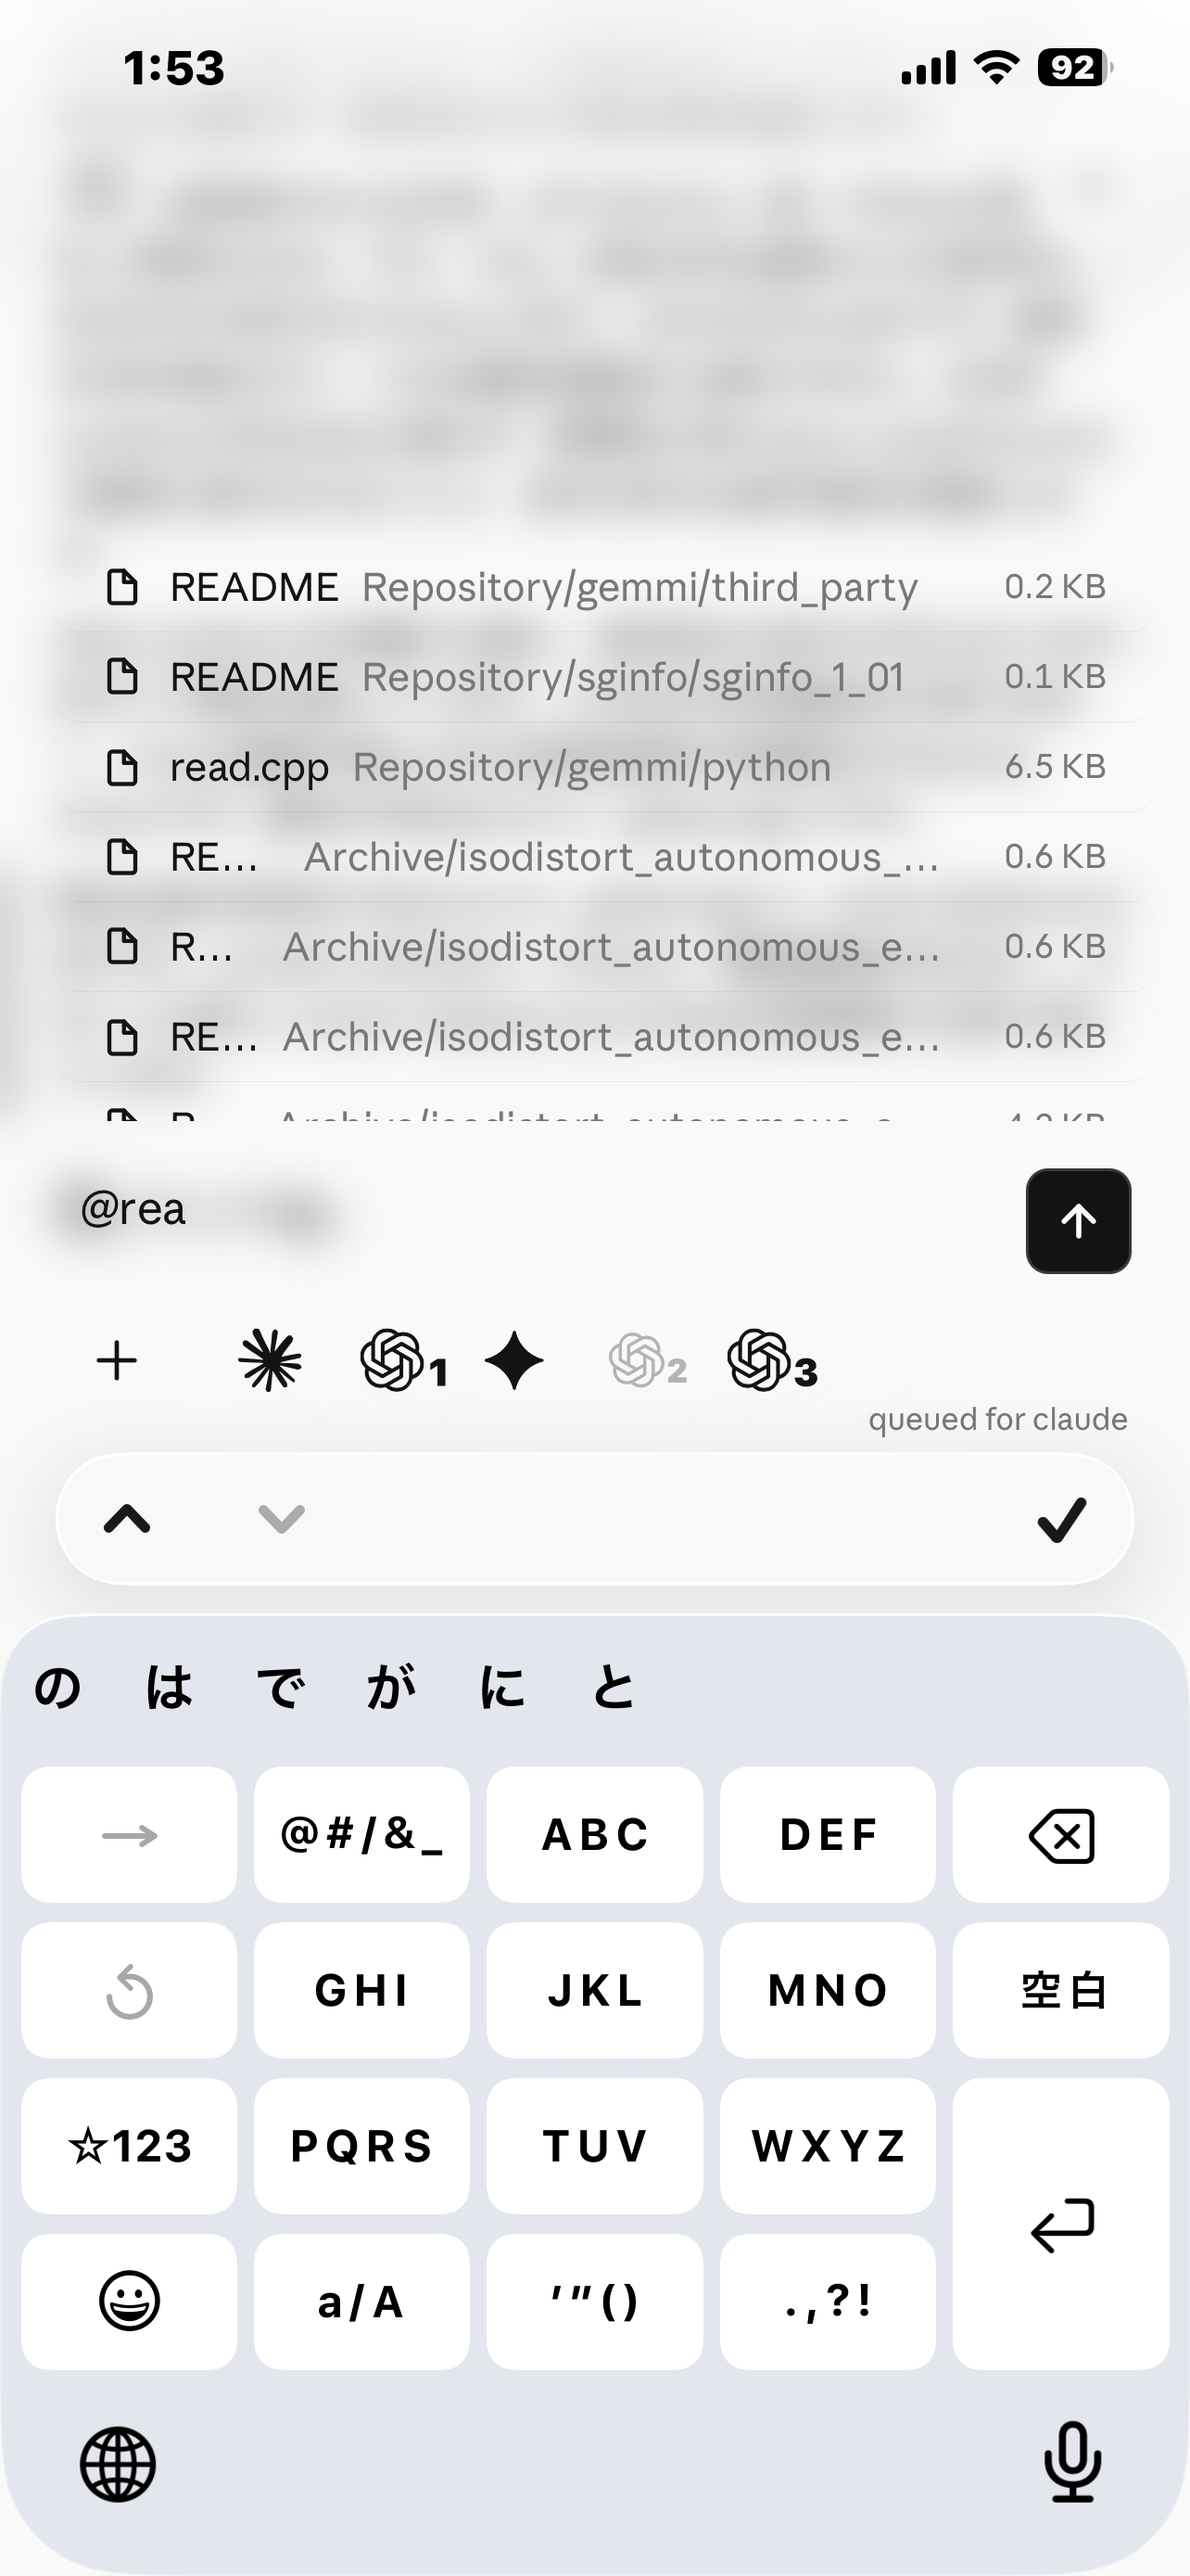
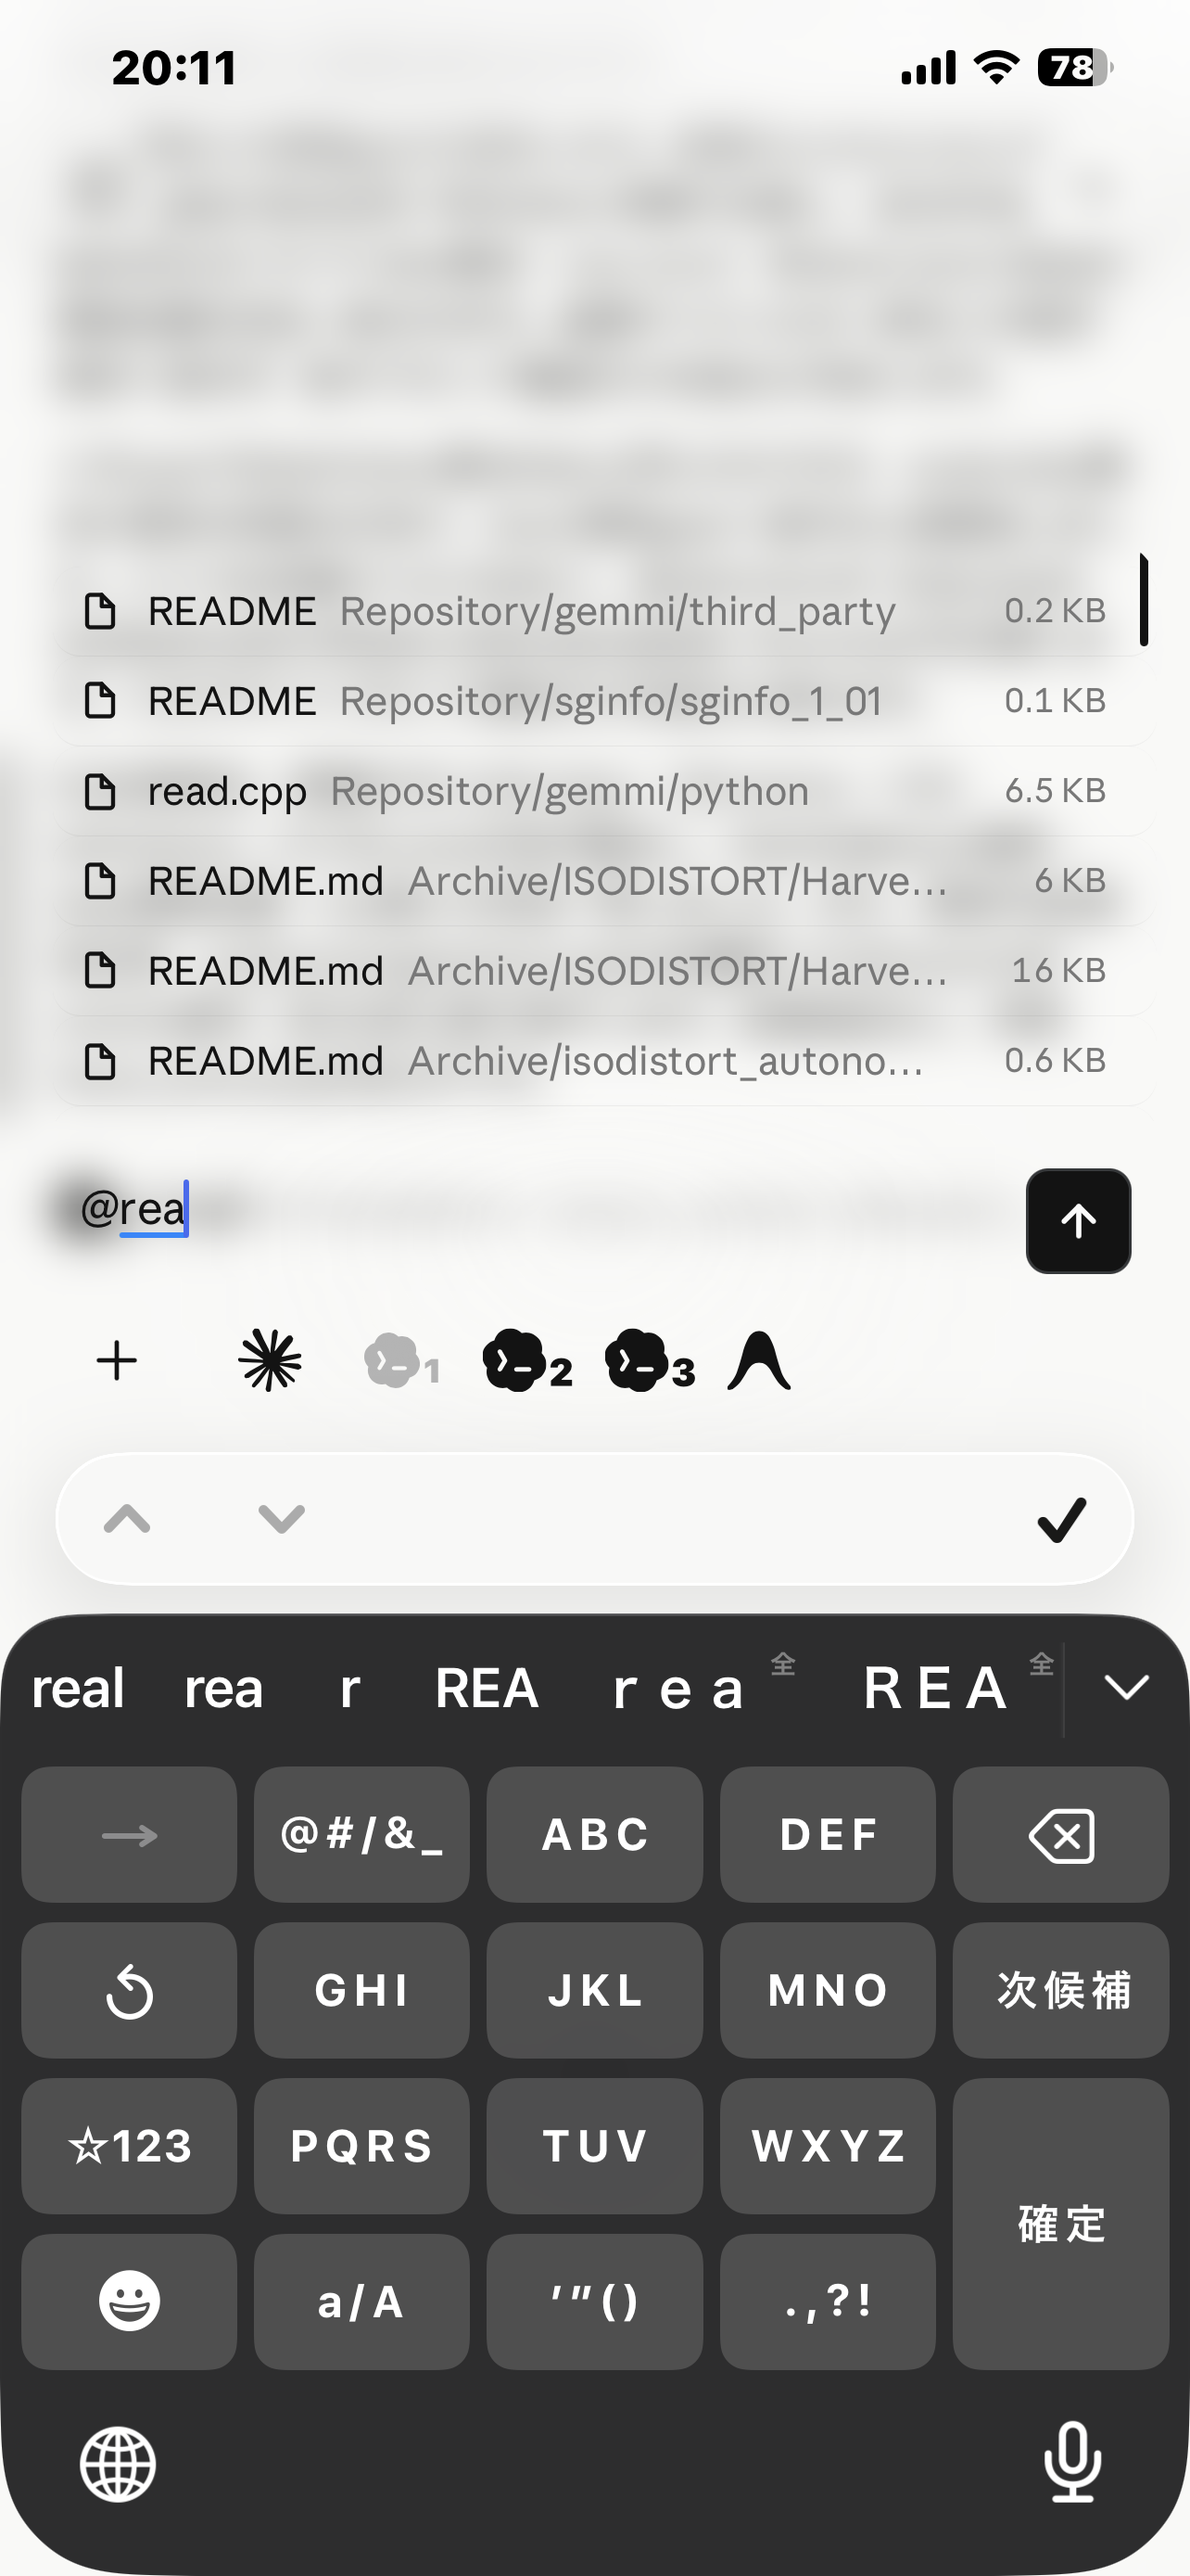
Refresh documentation media and file menu

diff --git a/apps/desktop/web/chat/styles/file-command-menu.css b/apps/desktop/web/chat/styles/file-command-menu.css
@@ -57,6 +57,20 @@
       box-sizing: border-box;
       will-change: transform, opacity;
       flex-direction: column;
+      scrollbar-width: thin;
+      scrollbar-color: var(--scrollbar-thumb) transparent;
+    }
+
+    #fileDropdown::-webkit-scrollbar,
+    .file-menu-slide::-webkit-scrollbar {
+      width: 2px;
+      height: 2px;
+    }
+
+    #fileDropdown::-webkit-scrollbar-thumb,
+    .file-menu-slide::-webkit-scrollbar-thumb {
+      background: var(--scrollbar-thumb);
+      border-radius: 999px;
     }
     #fileDropdown.visible {
       display: flex;
@@ -94,7 +108,7 @@
       gap: 12px;
       width: 100%;
       box-sizing: border-box;
-      padding: 8px 18px;
+      padding: 8px 14px;
       border-radius: 10px;
       font-size: 13.5px;
       line-height: 20px;

diff --git a/README_jp.md b/README_jp.md
@@ -53,11 +53,6 @@ Always on Top をONにすると、Windowが常に全面表示されます。
 
 ### 入力欄
 
-<p align="center">
-  <img src="media/agent-window-middle-2.png" width="100%" alt="Agent Window input 1">
-  <img src="media/agent-window-middle-3.png" width="100%" alt="Agent Window input 2">
-</p>
-
 入力欄は普段は最小化され、チャット本文の表示領域を最大化しています。下部のOボタンで展開されます。
 入力されたメッセージは、選択したエージェントのCLI paneに直接貼り付けられます。
 つまり、各CLIのコマンドをそのまま利用可能です。

diff --git a/README.md b/README.md
@@ -53,11 +53,6 @@ The basic screen. Similar to typical agent windows.
 
 ### Input
 
-<p align="center">
-  <img src="media/agent-window-middle-2.png" width="100%" alt="Agent Window input 1">
-  <img src="media/agent-window-middle-3.png" width="100%" alt="Agent Window input 2">
-</p>
-
 Usually minimized to maximize the chat area. Expanded with the O button at the bottom.
 Messages are pasted directly into the selected agent's CLI pane.
 CLI commands can be used as-is.
